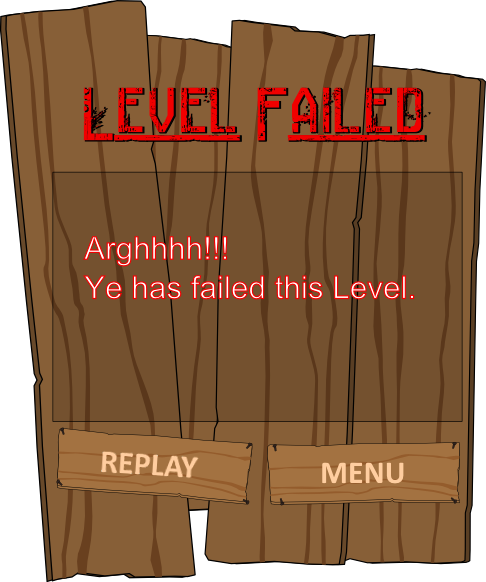
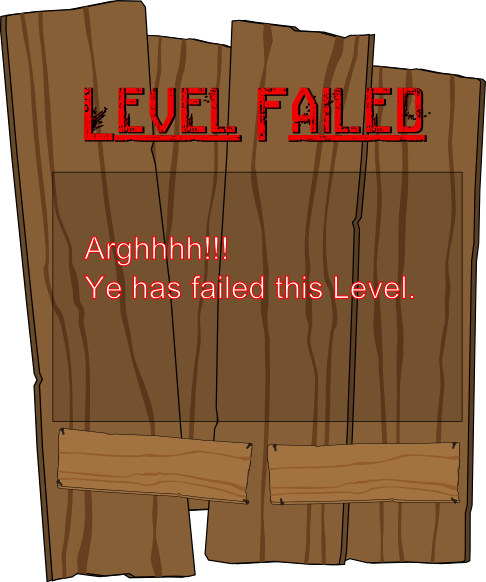
fixing game over text

Changed region(s): [[0.1852, 0.7732, 0.4012, 0.8351], [0.6481, 0.7732, 0.8333, 0.8351]]

diff --git a/Assets/Scripts/GameOverScript.cs b/Assets/Scripts/GameOverScript.cs
@@ -11,6 +11,7 @@ public class GameOverScript : MonoBehaviour
 {    
     public GameObject gameLostImage;
     public GameObject gameWonImage;
+    public GameObject gameOverText;
     public bool forceLoseGame = false;
 
     private Health m_playerHealth = null;    // Heath bar for the controllable player
@@ -56,6 +57,8 @@ public class GameOverScript : MonoBehaviour
                 soundManager.PlayMusic(SoundManager.MusicID.MENU_TRACK);
 
                 m_playerHealth.SetHealthLevel(0.0f);
+
+                gameOverText.SetActive(true);
 
                 if(m_hasLostGame)
                 {
